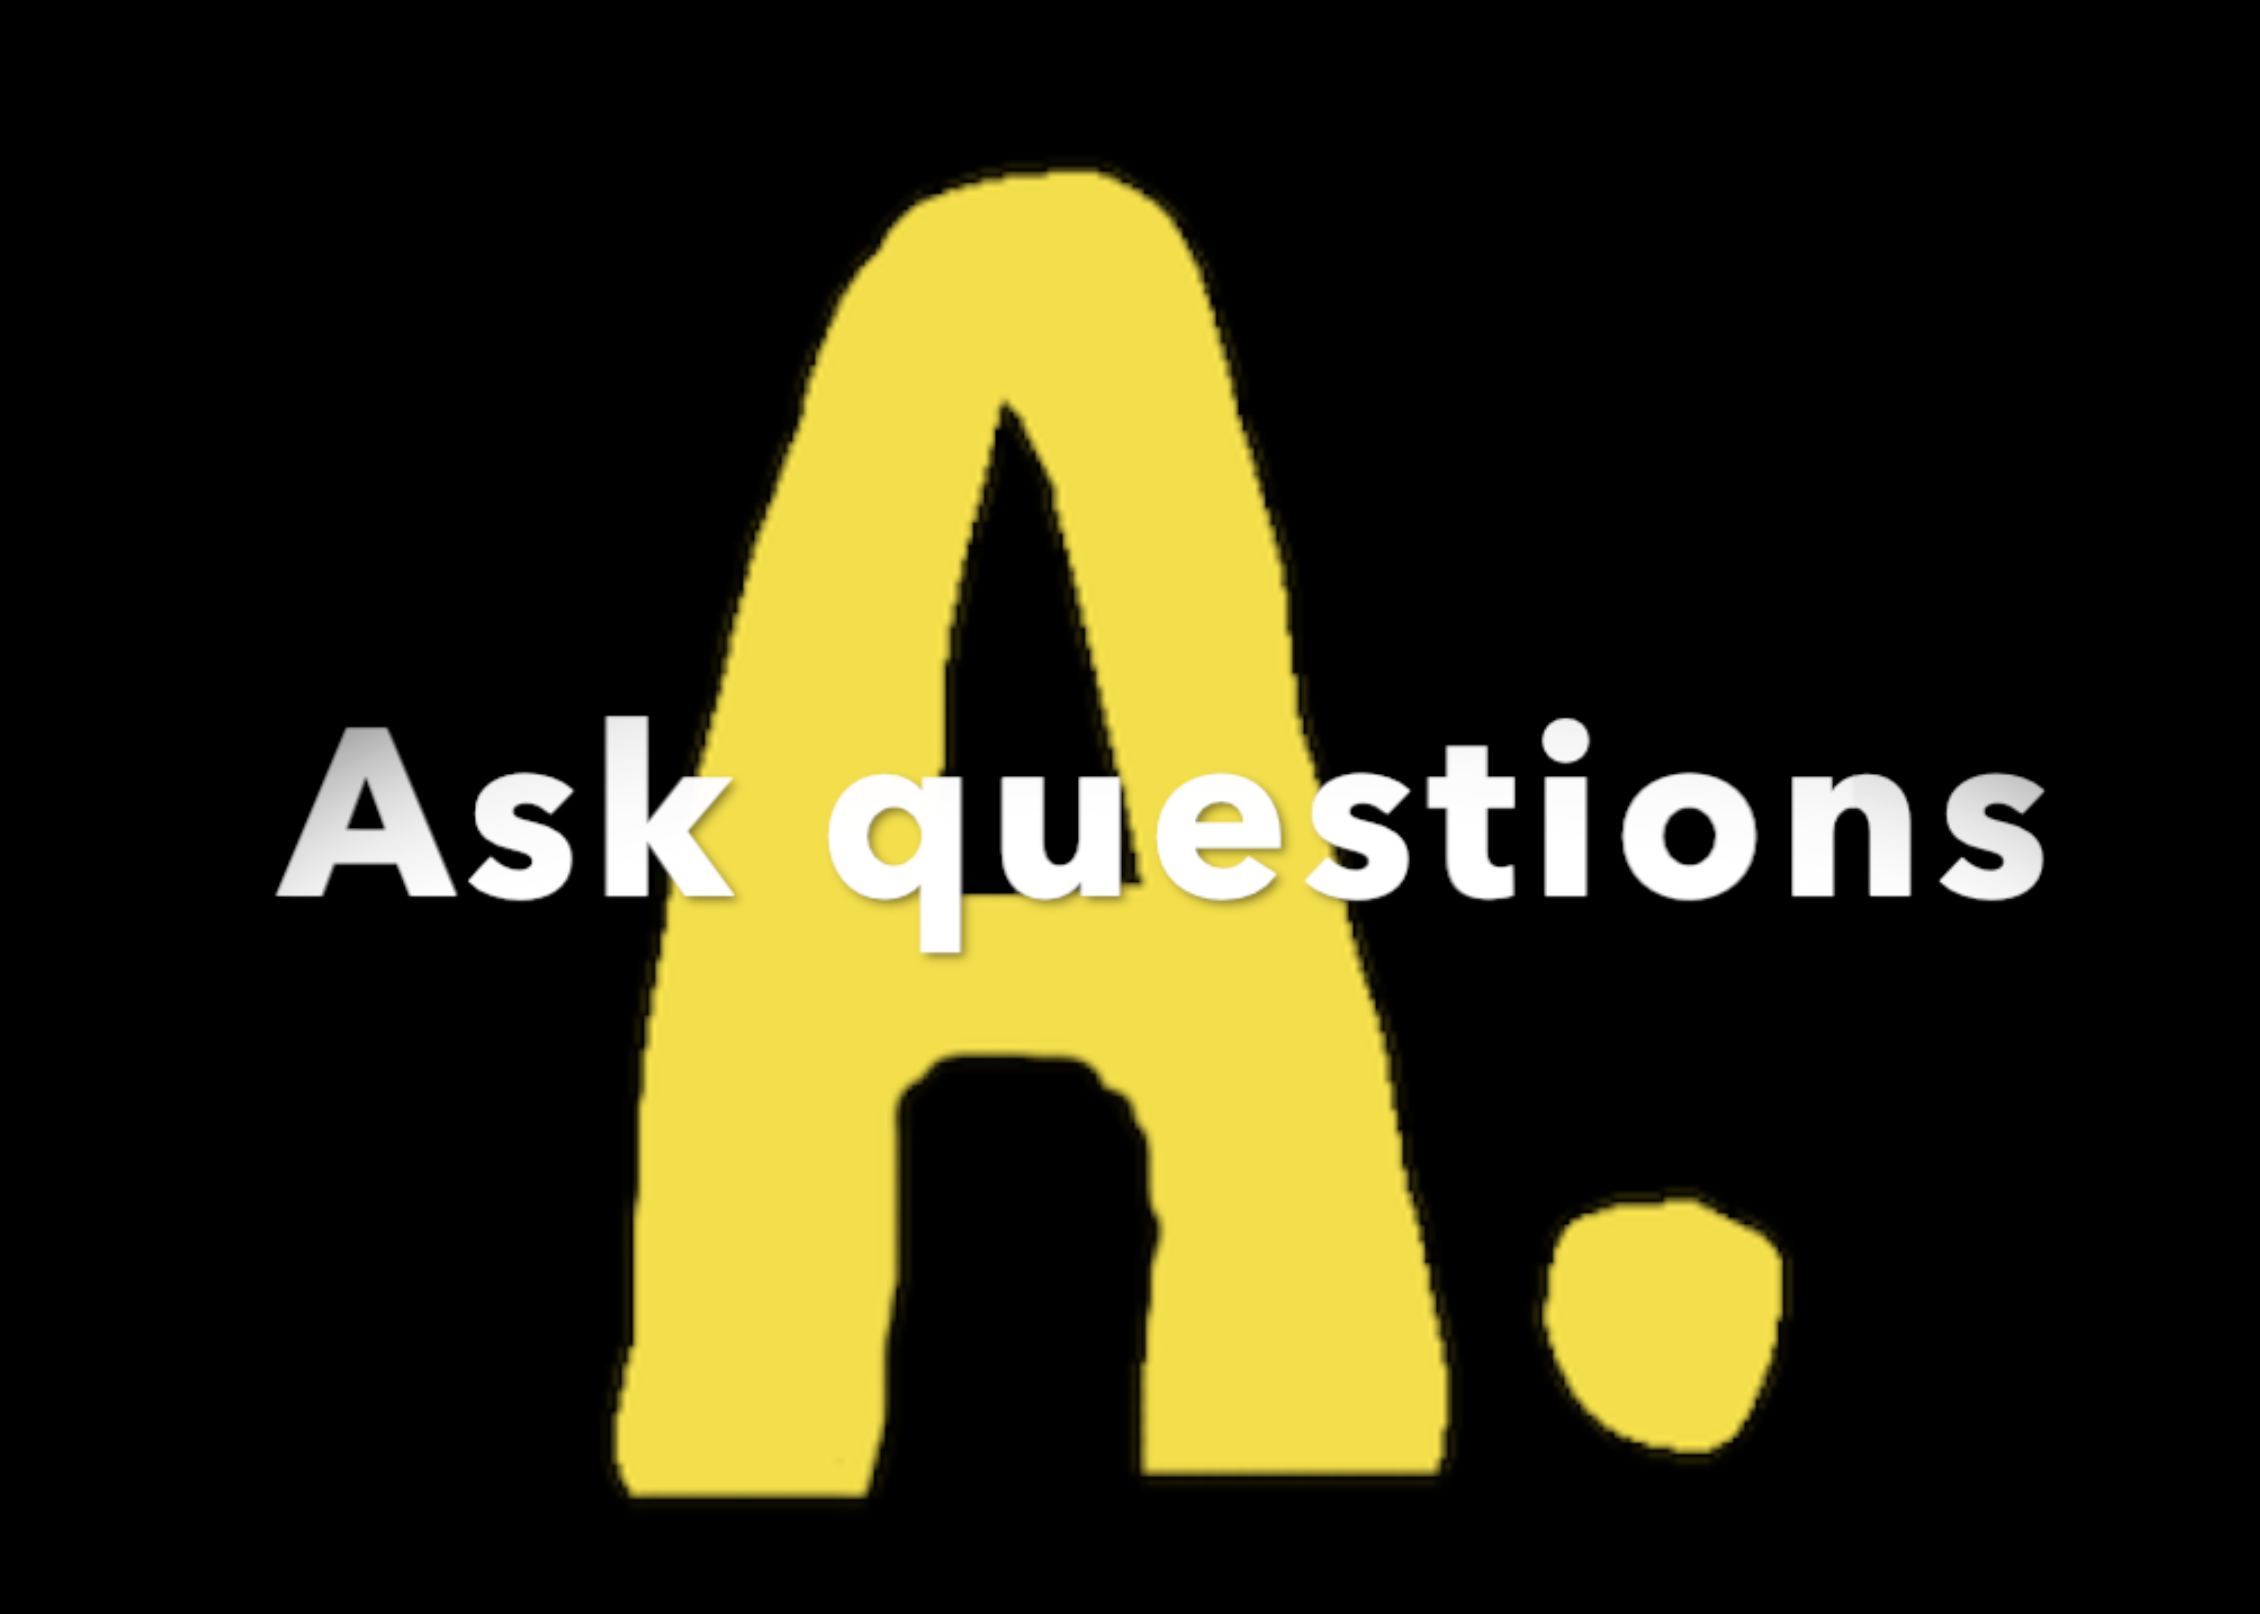
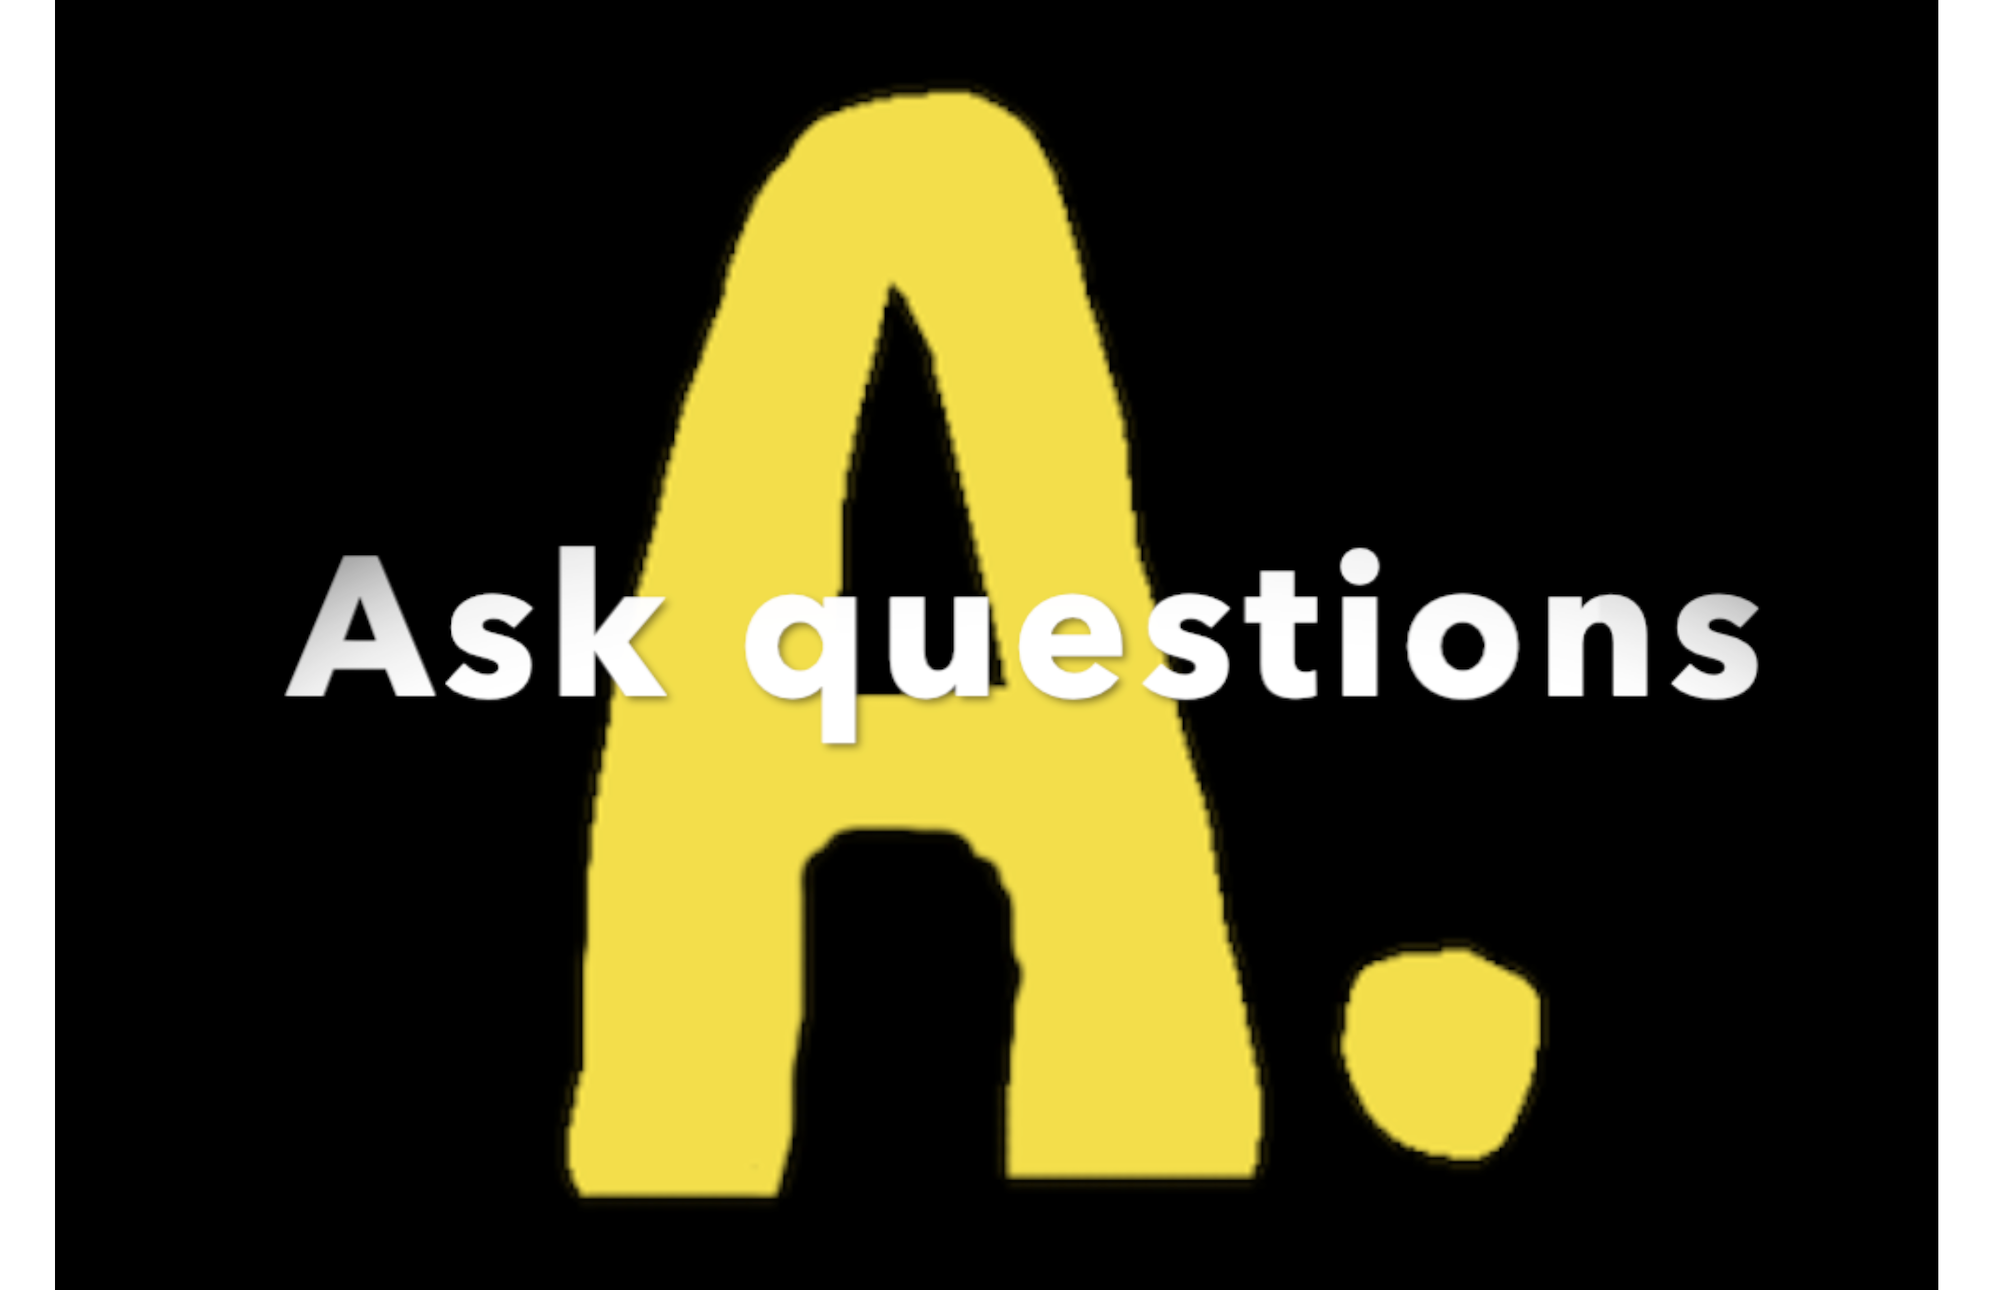
normalizing thumbnail sizes and getting them working on video list

diff --git a/components/VideoList.tsx b/components/VideoList.tsx
@@ -199,12 +199,10 @@ export function VideoList({navigation, route}) {
         <Card style={{flex: 0}}>
          <TouchableOpacity onPress={() => navigation.navigate('VideoWatch', {page: 0, video: 'Past', "name": "Recall the Past"})}>
           <CardItem bordered style = {{opacity: vid0Seen ? SEEN_OPACITY: 1.0}}>
-          <Left>
-          <Icon  name="movie" type="MaterialIcons"/>
-          <Thumbnail source={require("../assets/images/video-posters/Rthumb.png")} square style={{resizeMode: "contain"}}/>
+          <Thumbnail source={require("../assets/images/video-posters/Rthumb.png")} square style={styles.vidThumb}/>
           <Text>Recall the Past</Text>
-          </Left>
-          <Right>
+          <Left />
+          <Right style={{alignSelf: "flex-end"}}>
             <View style={{alignSelf: "flex-end", flexDirection: "row"}}>
               <Text style={styles.timestamp}>1:30</Text>
               <TouchableOpacity onPress={() => {changeReadState("video0seen", vid0Seen);}}>
@@ -219,11 +217,11 @@ export function VideoList({navigation, route}) {
 
          <TouchableOpacity onPress={() => navigation.navigate('VideoWatch', {page: 1, video: 'Ideas', "name": "Explain New Words or Ideas"})}>
           <CardItem bordered style = {{opacity: vid1Seen ? SEEN_OPACITY: 1.0}}>
-          <Left>
-          <Icon  name="movie" type="MaterialIcons"/>
+          
+          <Thumbnail source={require("../assets/images/video-posters/Ethumb.png")} square style={styles.vidThumb}/>
           <Text>Explain New Words or Ideas</Text>
-          </Left>
-          <Right>
+          <Left />
+          <Right style={{alignSelf: "flex-end"}}>
             <View style={{alignSelf: "flex-end", flexDirection: "row"}}>
               <Text style={styles.timestamp}>1:17</Text>
               <TouchableOpacity onPress={() => {changeReadState("video1seen", vid1Seen);}}>
@@ -238,7 +236,7 @@ export function VideoList({navigation, route}) {
 
         <TouchableOpacity onPress={() => navigation.navigate('VideoWatch', {page: 2, video: 'Questions', "name": "Ask Questions"})}>
         <CardItem bordered style = {{opacity: vid2Seen ? SEEN_OPACITY: 1.0}}>
-          <Icon  name="movie" type="MaterialIcons"/>
+          <Thumbnail source={require("../assets/images/video-posters/Athumb.png")} square style={styles.vidThumb}/>
           <Text>Ask Questions</Text>
           <Left />
           <Right style={{alignSelf: "flex-end"}}>
@@ -256,11 +254,11 @@ export function VideoList({navigation, route}) {
 
         <TouchableOpacity onPress={() => navigation.navigate('VideoWatch', {page: 3, video: 'Future', "name": "Discuss the Future"})}>
         <CardItem bordered style = {{opacity: vid3Seen ? SEEN_OPACITY: 1.0}}>
-          <Left>
-          <Icon  name="movie" type="MaterialIcons"/>
+          
+          <Thumbnail source={require("../assets/images/video-posters/Dthumb.png")} square style={styles.vidThumb}/>
           <Text>Discuss the Future</Text>
-          </Left>
-          <Right>
+          <Left />
+          <Right style={{alignSelf: "flex-end"}}>
             <View style={{alignSelf: "flex-end", flexDirection: "row"}}>
               <Text style={styles.timestamp}>1:17</Text>
               <TouchableOpacity onPress={() => {changeReadState("video3seen", vid3Seen);}}>
@@ -275,12 +273,11 @@ export function VideoList({navigation, route}) {
 
         <TouchableOpacity onPress={() => navigation.navigate('VideoWatch', {page: 4, video: 'Difference', "name": "You Can Make a Difference"})}>
         <CardItem bordered style = {{opacity: vid4Seen ? SEEN_OPACITY: 1.0}}>
-          <Left>
-          <Icon  name="movie" type="MaterialIcons"/>
+          
+          <Thumbnail source={require("../assets/images/video-posters/Ythumb.png")} square style={styles.vidThumb}/>
           <Text>You Can Make a Difference</Text>
-          </Left>
+          <Left />
           <Right style={{alignSelf: "flex-end"}}>
-
             <View style={{alignSelf: "flex-end", flexDirection: "row"}}>
               <Text style={styles.timestamp}>1:27</Text>
               <TouchableOpacity onPress={() => {changeReadState("video4seen", vid4Seen);}}>

diff --git a/style.tsx b/style.tsx
@@ -38,5 +38,10 @@ export const styles = StyleSheet.create({
     // alignSelf: 'flex-end'
     // flexDirection: 'row',
     // justifyContent: 'flex-end'
+  },
+
+  vidThumb: {
+    resizeMode: "contain",
+    height: "90%"
   }
 });
